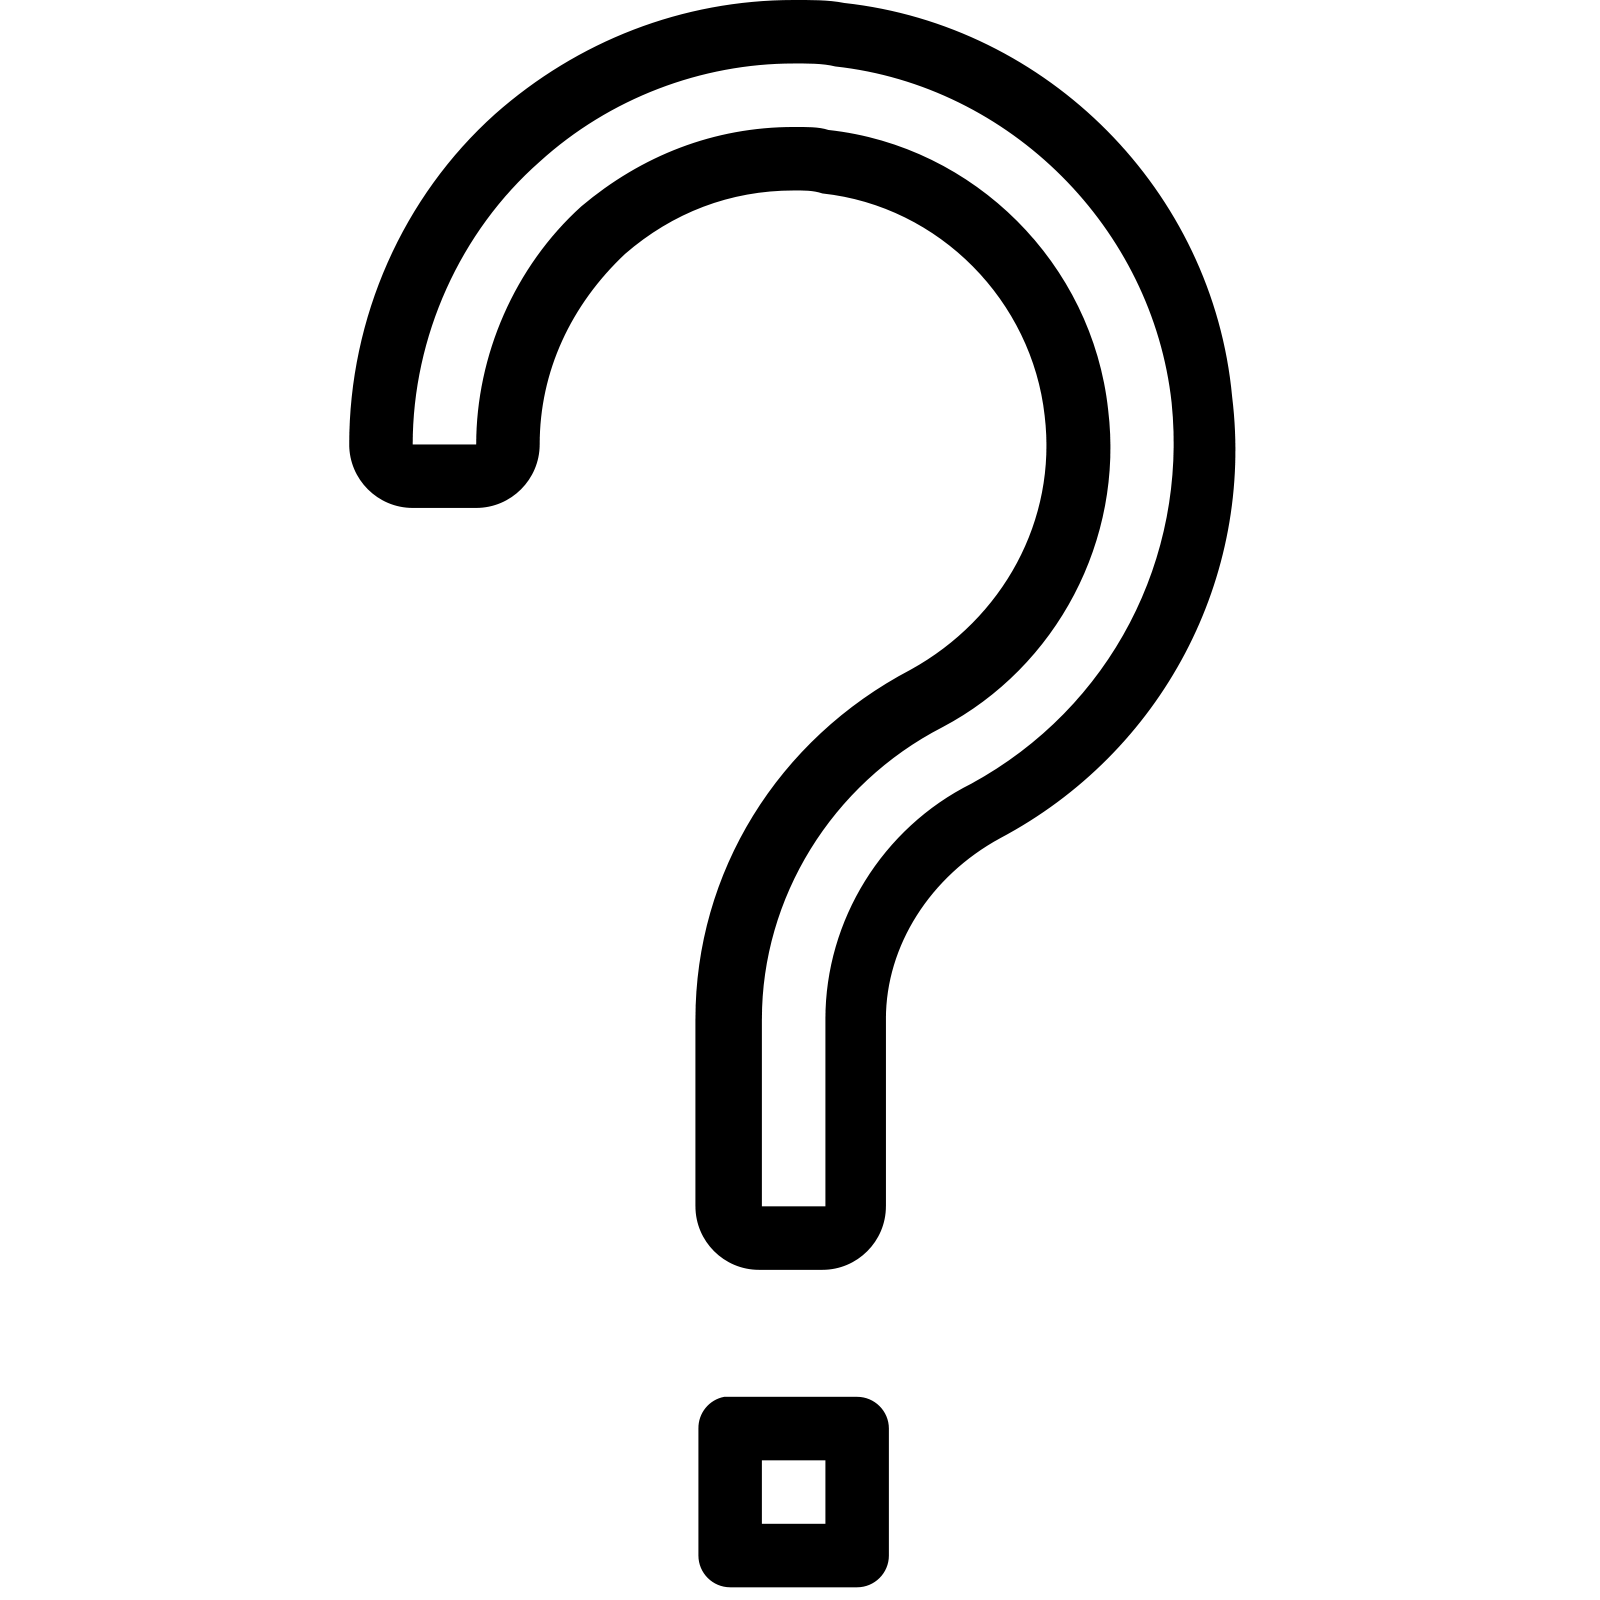
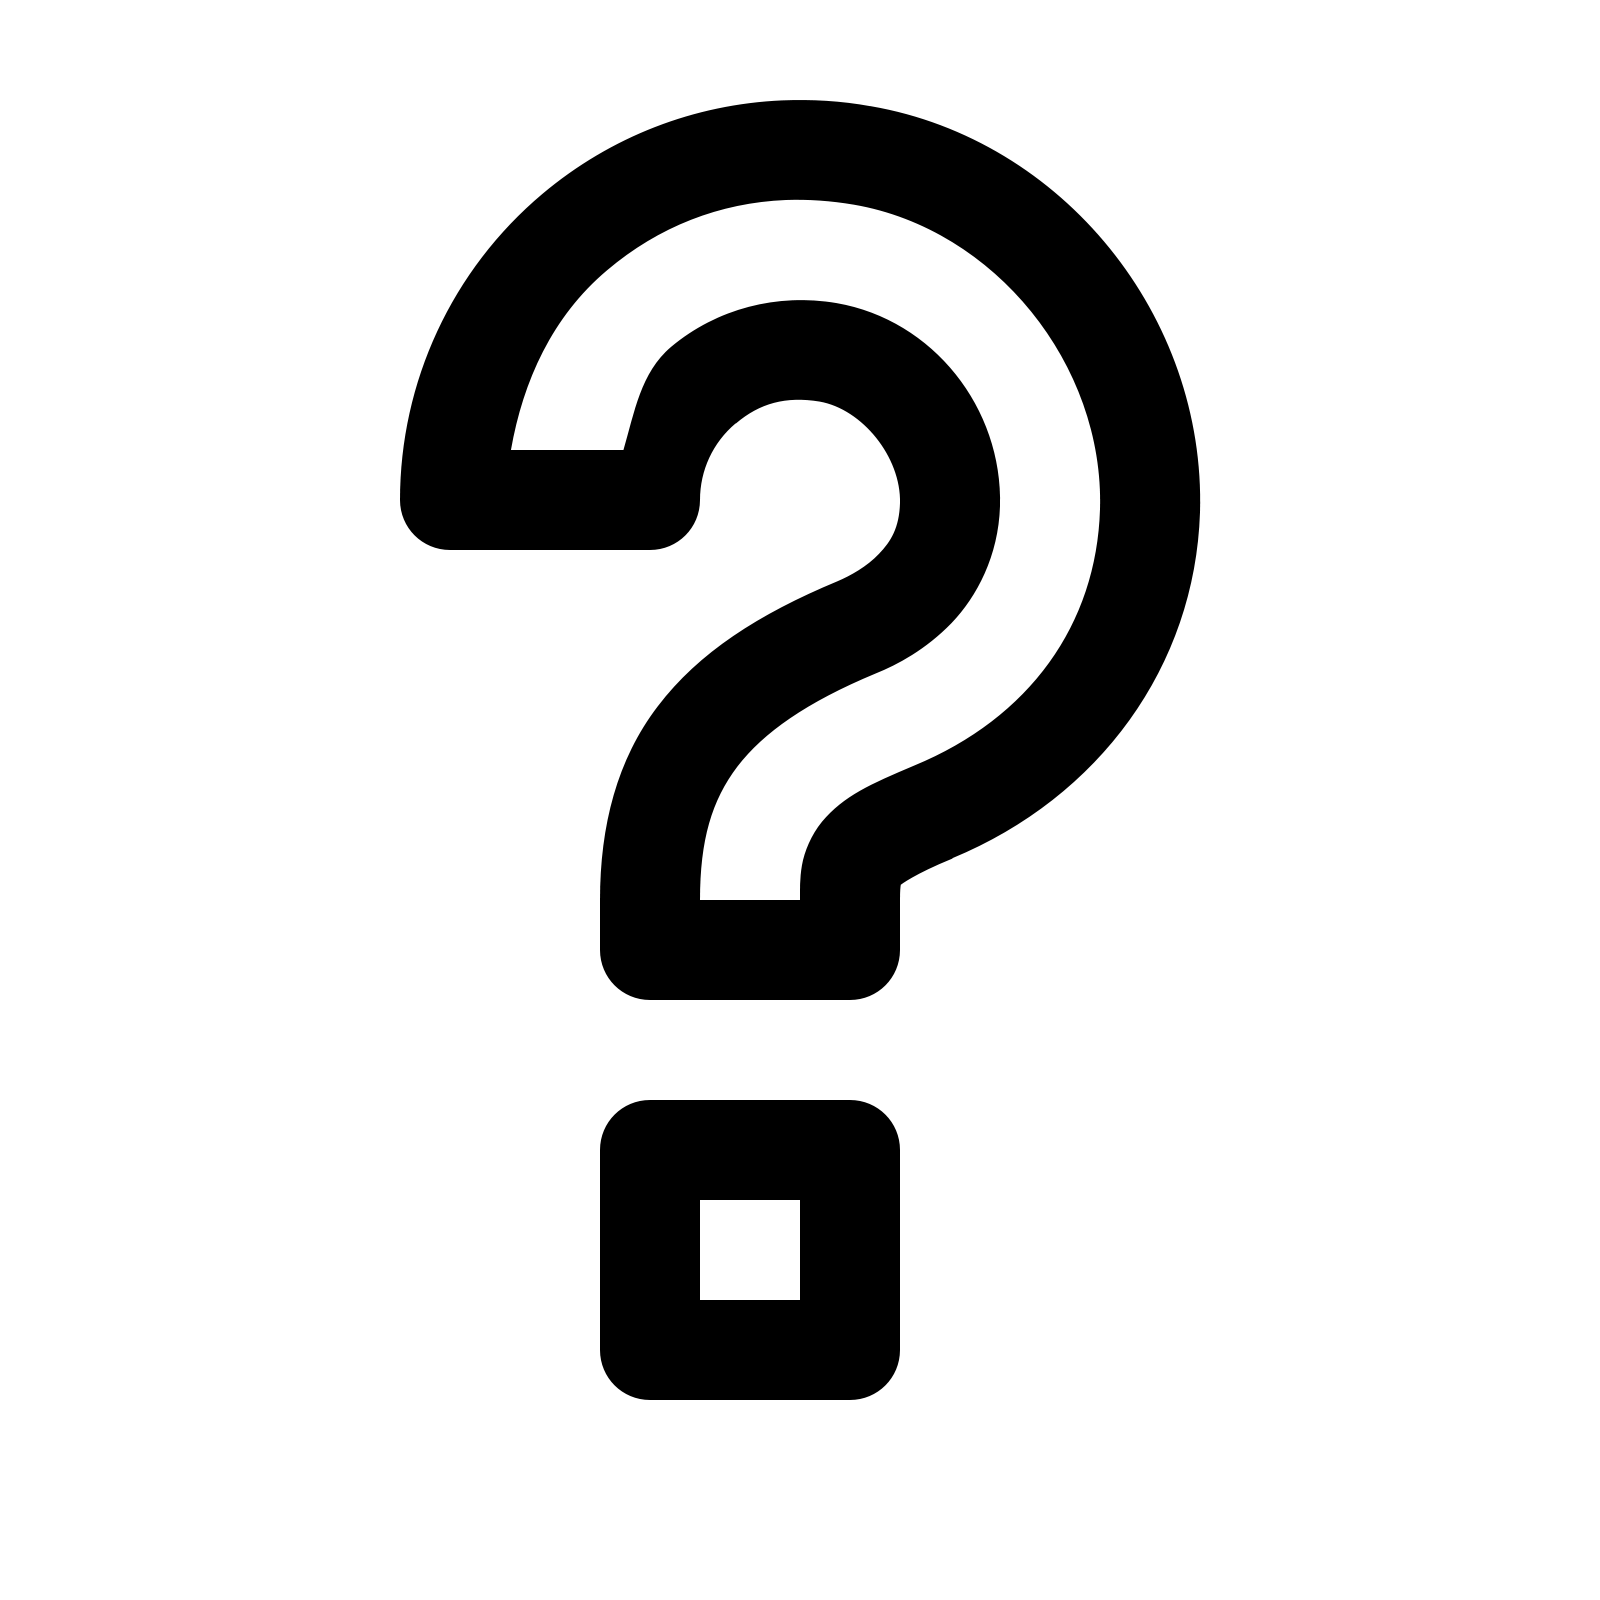
Fragezeichen bei Risikobewertung und Eigene Arbeitsabläufe wurden hinzugefügt

diff --git a/websites/Risikobewertung.html b/websites/Risikobewertung.html
@@ -59,7 +59,7 @@
 							<div class="inner">
 								<!-- Fragezeichen Icon -->
 								<img id="arbeitsablauf" src="images/ablauf.png" alt="">
-								<img id="fragezeichen" src="images/fragezeichen.png" onclick="hilfeBPMN()">
+								<img id="fragezeichen" src="images/fragezeichen2.png" onclick="hilfeBPMN()">
 								<h2>Risikobewertung</h2>
                     <p>Hier sehen Sie Standard Arbeitsabläufe aus der Holzbranche. Bitte passen Sie diese Arbeitsabläufe den Arbeitsabläufen Ihres Unternehmens an.</p>
 										<!--button type="button"  onclick="hilfeBPMN()" name="button" style="width: 12%">Hilfe</button-->

diff --git a/websites/assets/css/main.css b/websites/assets/css/main.css
@@ -4222,11 +4222,20 @@ span.psw {
 
 #fragezeichen {
 	position: fixed;
-	background: none;
-	width: 30px;
+	background: white;
+	width: 60px;
 	border-radius: 50%;
-	right: 35px;
-	top: 610px;
+	right: 100px;
+	top: 658px;
+}
+
+#fragezeichen2 {
+	position: fixed;
+	background: white;
+	width: 60px;
+	border-radius: 50%;
+	right: 20px;
+	top: 580px;
 }
 
 #video {

diff --git a/websites/EigeneArbeitsablauefe.html b/websites/EigeneArbeitsablauefe.html
@@ -50,11 +50,7 @@
 							<a href="#" class="close">Close</a>
 						</div>
 					</nav>
-
-
-
-
-
+					<img id="fragezeichen2" src="images/fragezeichen2.png" onclick="hilfeBPMN()">
 					<!-- Wrapper -->
 						<section id="wrapper">
 							<header>
